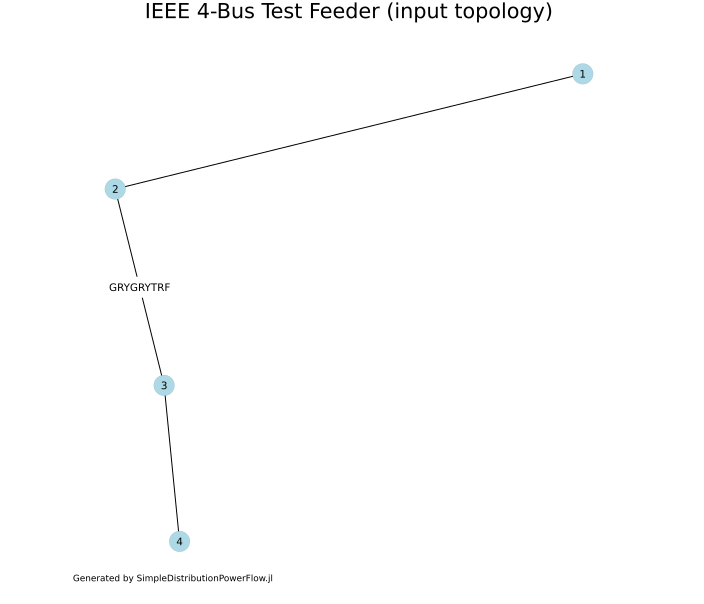
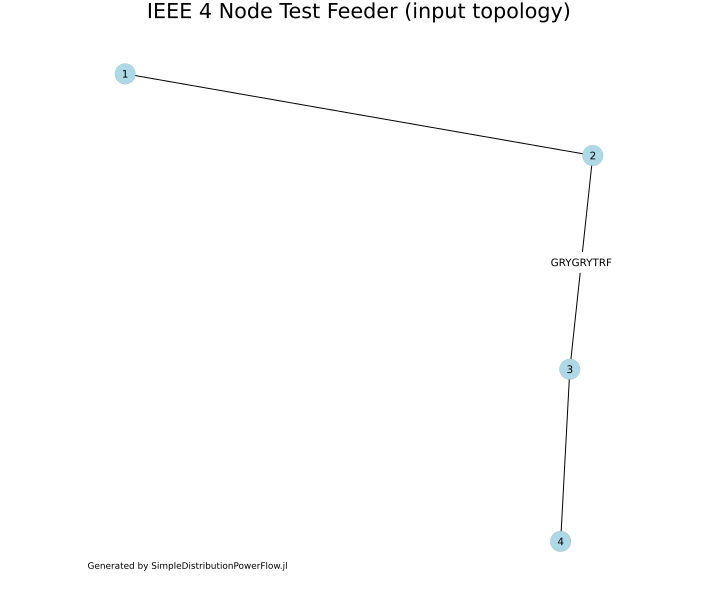
Update readme.md

diff --git a/examples/ieee-4/readme.md b/examples/ieee-4/readme.md
@@ -1,6 +1,6 @@
 # IEEE 4-Bus Test Feeder Cases
 
-This directory has the configuration files for the Standard 4-Bus Test Feeder Cases which have the following topology:
+This directory has the configuration files for the Standard IEEE 4 Node Test Feeder Cases which have the following topology:
 <img src="https://github.com/gisel-uninorte/SimpleDistributionPowerFlow.jl/blob/main/images/ieee_4_bus_std_test_feeder.png" alt="Standard IEEE 4-Bus Test Feeder Topology">
 
 Original test case can be downloaded from https://cmte.ieee.org/pes-testfeeders/wp-content/uploads/sites/167/2017/08/feeder4.zip
@@ -26,14 +26,14 @@ julia> powerflow(input="examples\\ieee-4", output="results")
 
 You can aggregate a title to the topology graph, per example:
 ```julia
-julia> gridtopology(input="examples/ieee-4", output="results", graph_title="IEEE 4-Bus Test Feeder")
-julia> powerflow(input="examples/ieee-4", output="results", graph_title="IEEE 4-Bus Test Feeder")
+julia> gridtopology(input="examples/ieee-4", output="results", graph_title="IEEE 4 Node Test Feeder")
+julia> powerflow(input="examples/ieee-4", output="results", graph_title="IEEE 4 Node Test Feeder")
 ```
 
 By default, SimpleDistributionPowerFlow does not display the topology on the screen, although the graphics are saved in png files. If you want to get the image on the screen after the execution of the command, you have to specify it:
 ```julia
-julia> gridtopology(input="examples/ieee-4", output="results", graph_title="IEEE 4-Bus Test Feeder", display_topology=true)
-julia> powerflow(input="examples/ieee-4", output="results", graph_title="IEEE 4-Bus Test Feeder", display_topology=true)
+julia> gridtopology(input="examples/ieee-4", output="results", graph_title="IEEE 4 Node Test Feeder", display_topology=true)
+julia> powerflow(input="examples/ieee-4", output="results", graph_title="IEEE 4 Node Test Feeder", display_topology=true)
 ```
 
 SimpleDistributionPowerFlow.jl always generates two topologies: one based on input data (_input topology_) and another after checking the input topology (_working topology_).
